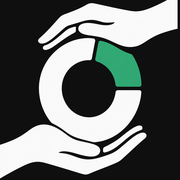
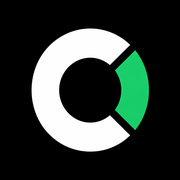
New Ceru mark: the C monogram
Replaces the hands-cradling-a-ring artwork everywhere it appears: icon.png,
favicon.ico with its 16/32 PNGs, apple-touch-icon, and the social card
rebuilt around the new mark.

theme-color follows the artwork to pure black — the old #0f0f10 was matched
to the previous background and would now be a shade off.

It is also a better icon at small sizes. The hands lost their fingers and the
gaps between them below roughly 60px; a monogram survives down to the 16px
favicon, which is exactly where a favicon lives.

diff --git a/index.html b/index.html
@@ -18,7 +18,7 @@
 <meta name="twitter:title" content="Ceru — Split expenses. Not friendships.">
 <meta name="twitter:description" content="AI splits your dinner bill, your trip costs, your rent — by voice or photo. No ads, offline-friendly, six languages.">
 <meta name="twitter:image" content="https://split-landing-silk.vercel.app/og.png">
-<meta name="theme-color" content="#0f0f10">
+<meta name="theme-color" content="#000000">
 <link rel="canonical" href="https://split-landing-silk.vercel.app/">
 <link rel="icon" href="favicon.ico" sizes="any">
 <link rel="icon" type="image/png" sizes="32x32" href="favicon-32.png">
